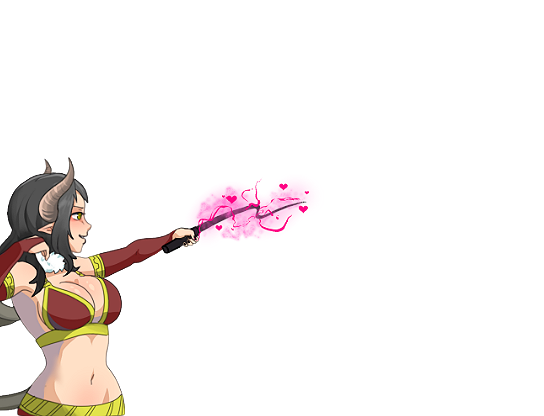
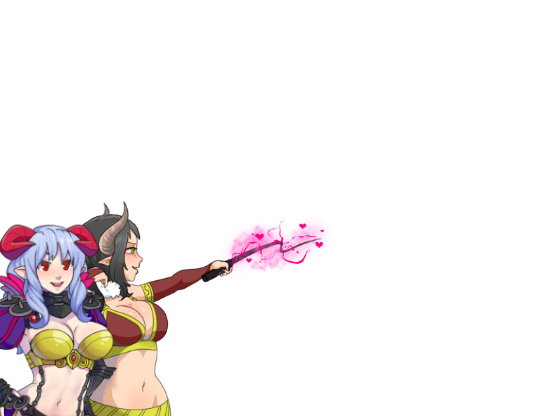
Nalili

Changed region(s): [[0.0, 0.375, 0.5938, 1.0]]

diff --git a/Battle Bust Config.rb b/Battle Bust Config.rb
@@ -149,6 +149,44 @@ Busty::BATTLE_CONFIG.merge!({
     "Heroic Blow" => "ChosenAttackShout",
     "Item" => "ChosenItem",
   },
+  "Nalili" => {
+    "Bash" => "NaliliBackBash",
+    "Blade of Lust" => "NaliliBackBladeOfLust",
+    "Cautious Swipes" => "NaliliBackCautiousSwipes",
+    "Cleavage" => "NaliliOverheadCleavage",
+    "Flaming Thrust" => "NaliliThrustFlamingStab",
+    "Guard" => "NaliliBackDefend",
+    "Healing Masturbation" => "NaliliMHealing",
+    "Hip Check"=> "NaliliHipSlam",
+    "Item" => "NaliliHipItem",
+    "Kiss of Steel" => "NaliliThrustKissOfSteel",
+    "Martial Masturbation" => "NaliliMMartial",
+    "Mother's Lust" => "NaliliMMothersLust",
+    "Orgy of Blows" => "NaliliThrustOrgyOfBlows",
+    "Piercing Stab" => "NaliliThrustPierce",
+    "Sex Appeal" => "NaliliSexAppeal",
+    "Sexual Aegis" => "NaliliBackSexualAegis",
+    "Swift Stab" => "NaliliThrustSwiftStab",
+    "True Cleavage" => "NaliliOverheadTrueCleavage",
+    "Wild Blow" => "NaliliOverheadWildBlow",
+    proc: ->(move) {
+      mature_nalili = $game_switches[857]
+
+      if move.c_name == "Attack"
+        return mature_nalili ? "NaliliThrustAttackMature" : "NaliliThrustAttackSilly"
+      end
+
+      if ["Combat Masturbation", "Masturbate+"].include?(move.c_name)
+        return mature_nalili ? "NaliliMMature" : "NaliliMSilly"
+      end
+
+      if move.c_name == "Desperate Masturbation"
+        return Busty::varia_dominated? ? "NaliliMDesperateDominated" : "NaliliMDesperateReformed"
+      end
+
+      nil
+    },
+  },
   "Qum D'umpe" => {
     "Arousing Kiss" => "QumKissArousingKiss",
     "Arousing Aura" => "QumKissArousingAura",
@@ -263,6 +301,7 @@ Busty::BATTLE_CONFIG.merge!({
     "Ice Whip" => "YarraAttackIce",
     "Incubus King's Emissary" => "YarraSpellEmissary",
     "Item" => "YarraItem",
+    "Lash of Torment" => "YarraAttackSexualEnergy",
     "Masturbate" => "YarraM",
     "Masturbate+" => "YarraM",
     "Sealing Tech" => "YarraSpell",
@@ -290,13 +329,6 @@ Busty.duplicate_battle_config([
     },
   },
   {
-    base_character: "Simon1",
-    evolved_character: "Simon2",
-    search_and_replace: {
-      "SimonGreen" => "SimonBlack",
-    },
-  },
-  {
     base_character: "Hilstara",
     evolved_character: "HilstaraKnight",
     search_and_replace: {
@@ -304,9 +336,21 @@ Busty.duplicate_battle_config([
     },
   },
   {
+    base_character: "Nalili",
+    evolved_character: "Nalili2",
+    search_and_replace: {}, # No changes
+  },
+  {
     base_character: "Robin blond",
     evolved_character: "Robin grey",
     search_and_replace: {}, # Robin only has a few skills that vary between forms, updated by hand below
+  },
+  {
+    base_character: "Simon1",
+    evolved_character: "Simon2",
+    search_and_replace: {
+      "SimonGreen" => "SimonBlack",
+    },
   },
   {
     base_character: "Varia Reshaped",
